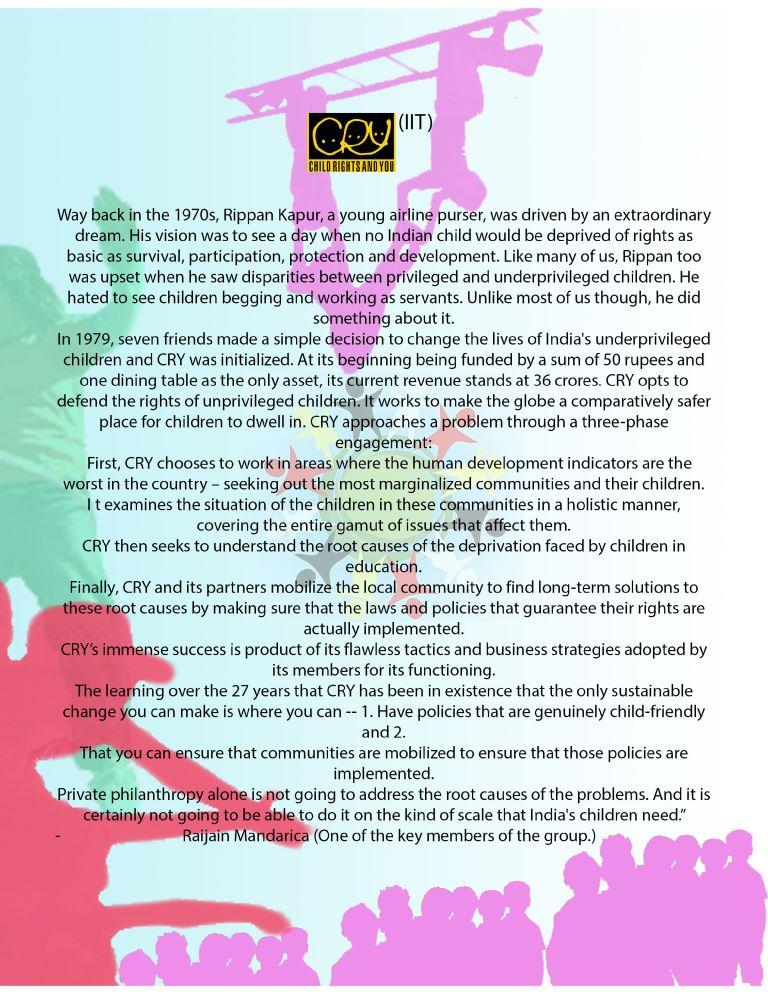
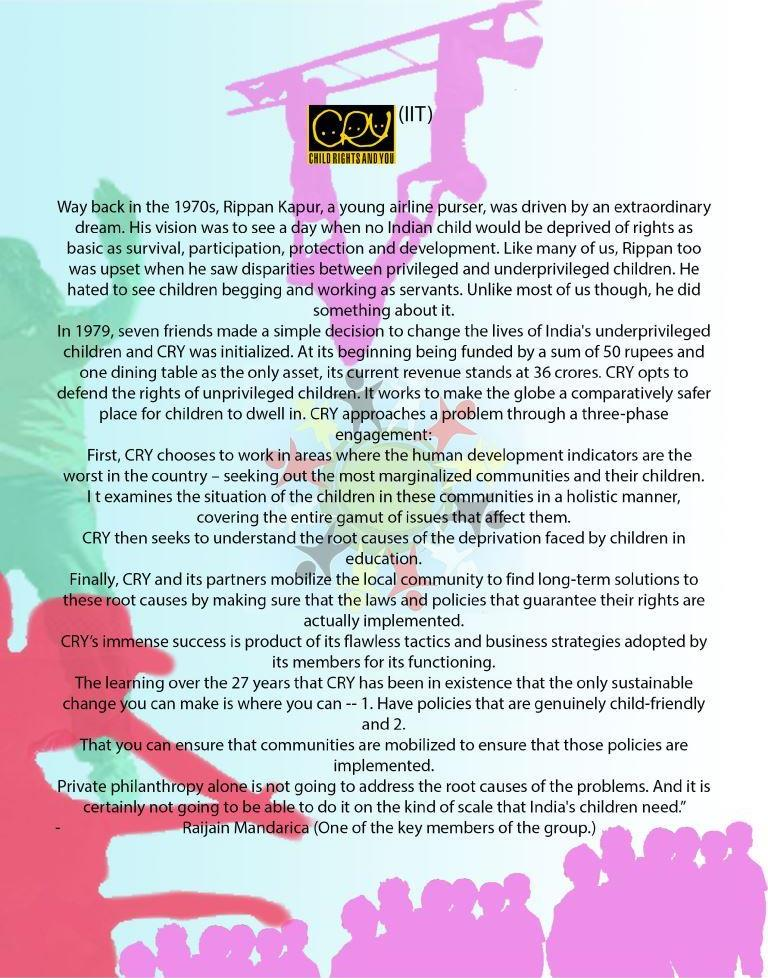
Minor Design changes and bugs resolved
-Added percentage width to bookblock instead of fixed height/width, hence resolved issues on viewing in mobile.
-Added background image to homepage.
-Cropped white space at top/bottom in mag images.

diff --git a/assets/js/bookblock.min.js b/assets/js/bookblock.min.js
@@ -8,4 +8,4 @@
  * Copyright 2013, Codrops
  * http://www.codrops.com
  */
- (function(c){var a=c.document,d=c.Modernizr;d.addTest("csstransformspreserve3d",function(){var h=d.prefixed("transformStyle");var g="preserve-3d";var f;if(!h){return false}h=h.replace(/([A-Z])/g,function(j,i){return"-"+i.toLowerCase()}).replace(/^ms-/,"-ms-");d.testStyles("#modernizr{"+h+":"+g+";}",function(i,j){f=c.getComputedStyle?getComputedStyle(i,null).getPropertyValue(h):""});return(f===g)});function e(g,f){for(var h in f){if(f.hasOwnProperty(h)){g[h]=f[h]}}return g}function b(g,f){this.el=g;this.options=e(this.defaults,f);this._init()}b.prototype={defaults:{orientation:"vertical",direction:"ltr",speed:1000,easing:"ease-in-out",shadows:true,shadowSides:0.2,shadowFlip:0.1,circular:false,nextEl:"",prevEl:"",autoplay:false,interval:3000,onEndFlip:function(f,h,g){return false},onBeforeFlip:function(f){return false}},_init:function(){this.el.className+=" bb-"+this.options.orientation;this.items=Array.prototype.slice.call(this.el.querySelectorAll(".bb-item"));this.itemsCount=this.items.length;this.currentIdx=0;this.previous=-1;this.current=this.items[this.currentIdx];this.current.style.display="block";this.elWidth=this.el.offsetWidth;var f={WebkitTransition:"webkitTransitionEnd",MozTransition:"transitionend",OTransition:"oTransitionEnd",msTransition:"MSTransitionEnd",transition:"transitionend"};this.transEndEventName=f[d.prefixed("transition")];this.support=d.csstransitions&&d.csstransforms3d&&d.csstransformspreserve3d;this._initEvents();if(this.options.autoplay){this.options.circular=true;this._startSlideshow()}},_initEvents:function(){var f=this;if(this.options.nextEl!==""){a.querySelector(this.options.nextEl).addEventListener("click",function(){f._action("next");return false});a.querySelector(this.options.nextEl).addEventListener("touchstart",function(){f._action("next");return false})}if(this.options.prevEl!==""){a.querySelector(this.options.prevEl).addEventListener("click",function(){f._action("prev");return false});a.querySelector(this.options.prevEl).addEventListener("touchstart",function(){f._action("prev");return false})}c.addEventListener("resize",function(){f._resizeHandler()})},_action:function(f,g){this._stopSlideshow();this._navigate(f,g)},_navigate:function(f,g){if(this.isAnimating){return false}this.options.onBeforeFlip(this.currentIdx);this.isAnimating=true;this.current=this.items[this.currentIdx];if(g!==undefined){this.currentIdx=g}else{if(f==="next"&&this.options.direction==="ltr"||f==="prev"&&this.options.direction==="rtl"){if(!this.options.circular&&this.currentIdx===this.itemsCount-1){this.end=true}else{this.previous=this.currentIdx;this.currentIdx=this.currentIdx<this.itemsCount-1?this.currentIdx+1:0}}else{if(f==="prev"&&this.options.direction==="ltr"||f==="next"&&this.options.direction==="rtl"){if(!this.options.circular&&this.currentIdx===0){this.end=true}else{this.previous=this.currentIdx;this.currentIdx=this.currentIdx>0?this.currentIdx-1:this.itemsCount-1}}}}this.nextItem=!this.options.circular&&this.end?this.current:this.items[this.currentIdx];this.items.forEach(function(j,h){j.style.display="none"});if(!this.support){this._layoutNoSupport(f)}else{this._layout(f)}},_layoutNoSupport:function(g){this.nextItem.style.display="block";this.end=false;this.isAnimating=false;var f=g==="next"&&this.currentIdx===this.itemsCount-1||g==="prev"&&this.currentIdx===0;this.options.onEndFlip(this.previous,this.currentIdx,f)},_layout:function(i){var o=this,j=this._addSide("left",i),p=this._addSide("middle",i),l=this._addSide("right",i),f=j.querySelector("div.bb-overlay"),m=p.querySelector("div.bb-front").querySelector("div.bb-flipoverlay"),n=p.querySelector("div.bb-back").querySelector("div.bb-flipoverlay"),k=l.querySelector("div.bb-overlay"),h=this.end?400:this.options.speed;var g=this.items[0];this.el.insertBefore(j,g);this.el.insertBefore(p,g);this.el.insertBefore(l,g);j.style.zIndex=102;p.style.zIndex=103;l.style.zIndex=101;p.style.transitionDuration=h+"ms";p.style.transitionTimingFunction=this.options.easing;p.addEventListener(this.transEndEventName,function(r){if((" "+r.target.className+" ").replace(/[\n\t]/g," ").indexOf(" bb-page ")>-1){Array.prototype.slice.call(o.el.querySelectorAll(".bb-page")).forEach(function(t,s){o.el.removeChild(t)});o.nextItem.style.display="block";o.end=false;o.isAnimating=false;var q=i==="next"&&o.currentIdx===o.itemsCount-1||i==="prev"&&o.currentIdx===0;o.options.onEndFlip(o.previous,o.currentIdx,q)}});if(i==="prev"){p.className+=" bb-flip-initial"}if(this.options.shadows&&!this.end){if(i==="next"){m.style.transition="opacity "+this.options.speed/2+"ms linear";n.style.transition="opacity "+this.options.speed/2+"ms linear "+this.options.speed/2+"ms";n.style.opacity=this.options.shadowFlip;f.style.transition="opacity "+this.options.speed/2+"ms linear "+this.options.speed/2+"ms";k.style.transition="opacity "+this.options.speed/2+"ms linear";k.style.opacity=this.options.shadowSides}else{if(i==="prev"){m.style.transition="opacity "+this.options.speed/2+"ms linear "+this.options.speed/2+"ms";m.style.opacity=this.options.shadowFlip;n.style.transition="opacity "+this.options.speed/2+"ms linear";f.style.transition="opacity "+this.options.speed/2+"ms linear";f.style.opacity=this.options.shadowSides;k.style.transition="opacity "+this.options.speed/2+"ms linear "+this.options.speed/2+"ms"}}}setTimeout(function(){p.className+=o.end?" bb-flip-"+i+"-end":" bb-flip-"+i;if(o.options.shadows&&!o.end){m.style.opacity=i==="next"?o.options.shadowFlip:0;n.style.opacity=i==="next"?0:o.options.shadowFlip;f.style.opacity=i==="next"?o.options.shadowSides:0;k.style.opacity=i==="next"?0:o.options.shadowSides}},25)},_addSide:function(h,g){var j=a.createElement("div");j.className="bb-page";switch(h){case"left":var f=g==="next"?this.current.innerHTML:this.nextItem.innerHTML;j.innerHTML='<div class="bb-back"><div class="bb-outer"><div class="bb-content"><div class="bb-inner">'+f+'</div></div><div class="bb-overlay"></div></div></div>';break;case"middle":var k=g==="next"?this.current.innerHTML:this.nextItem.innerHTML;var i=g==="next"?this.nextItem.innerHTML:this.current.innerHTML;j.innerHTML='<div class="bb-front"><div class="bb-outer"><div class="bb-content"><div class="bb-inner">'+k+'</div></div><div class="bb-flipoverlay"></div></div></div><div class="bb-back"><div class="bb-outer"><div class="bb-content" style="width:'+this.elWidth+'px"><div class="bb-inner">'+i+'</div></div><div class="bb-flipoverlay"></div></div></div>';break;case"right":var f=g==="next"?this.nextItem.innerHTML:this.current.innerHTML;j.innerHTML='<div class="bb-front"><div class="bb-outer"><div class="bb-content"><div class="bb-inner">'+f+'</div></div><div class="bb-overlay"></div></div></div>';break}return j},_startSlideshow:function(){var f=this;this.slideshow=setTimeout(function(){f._navigate("next");if(f.options.autoplay){f._startSlideshow()}},this.options.interval)},_stopSlideshow:function(){if(this.options.autoplay){clearTimeout(this.slideshow);this.options.autoplay=false}},next:function(){this._action(this.options.direction==="ltr"?"next":"prev")},prev:function(){this._action(this.options.direction==="ltr"?"prev":"next")},jump:function(g){g-=1;if(g===this.currentIdx||g>=this.itemsCount||g<0){return false}var f;if(this.options.direction==="ltr"){f=g>this.currentIdx?"next":"prev"}else{f=g>this.currentIdx?"prev":"next"}this._action(f,g)},last:function(){this.jump(this.itemsCount)},first:function(){this.jump(1)},_resizeHandler:function(){var f=this;function g(){f._resize();f._resizeTimeout=null}if(this._resizeTimeout){clearTimeout(this._resizeTimeout)}this._resizeTimeout=setTimeout(g,50)},_resize:function(){this.elWidth=this.el.offsetWidth},isActive:function(){return this.isAnimating},update:function(){var f=this.items[this.current];this.items=Array.prototype.slice.call(this.el.querySelectorAll(".bb-item"));this.itemsCount=this.items.length;this.currentIdx=this.items.indexOf(f)},destroy:function(){if(this.options.autoplay){this._stopSlideshow()}this.el.className=this.el.className.replace(new RegExp("(^|\\s+)bb-"+this.options.orientation+"(\\s+|$)")," ");this.items.forEach(function(g,f){g.style.display="block"});if(this.options.nextEl!==""){this.options.nextEl.removeEventListener("click");this.options.nextEl.removeEventListener("touchstart")}if(this.options.prevEl!==""){this.options.prevEl.removeEventListener("click");this.options.prevEl.removeEventListener("touchstart")}c.removeEventListener("debouncedresize")}};c.BookBlock=b})(window);
+ (function(c){var a=c.document,d=c.Modernizr;d.addTest("csstransformspreserve3d",function(){var h=d.prefixed("transformStyle");var g="preserve-3d";var f;if(!h){return false}h=h.replace(/([A-Z])/g,function(j,i){return"-"+i.toLowerCase()}).replace(/^ms-/,"-ms-");d.testStyles("#modernizr{"+h+":"+g+";}",function(i,j){f=c.getComputedStyle?getComputedStyle(i,null).getPropertyValue(h):""});return(f===g)});function e(g,f){for(var h in f){if(f.hasOwnProperty(h)){g[h]=f[h]}}return g}function b(g,f){this.el=g;this.options=e(this.defaults,f);this._init()}b.prototype={defaults:{orientation:"vertical",direction:"ltr",speed:1000,easing:"ease-in-out",shadows:true,shadowSides:0.2,shadowFlip:0.1,circular:false,nextEl:"",prevEl:"",autoplay:false,interval:3000,onEndFlip:function(f,h,g){return false},onBeforeFlip:function(f){return false}},_init:function(){this.el.className+=" bb-"+this.options.orientation;this.items=Array.prototype.slice.call(this.el.querySelectorAll(".bb-item"));this.itemsCount=this.items.length;this.currentIdx=0;this.previous=-1;this.current=this.items[this.currentIdx];this.current.style.display="block";this.elWidth=this.el.offsetWidth;var f={WebkitTransition:"webkitTransitionEnd",MozTransition:"transitionend",OTransition:"oTransitionEnd",msTransition:"MSTransitionEnd",transition:"transitionend"};this.transEndEventName=f[d.prefixed("transition")];this.support=d.csstransitions&&d.csstransforms3d&&d.csstransformspreserve3d;this._initEvents();if(this.options.autoplay){this.options.circular=true;this._startSlideshow()}},_initEvents:function(){var f=this;if(this.options.nextEl!==""){a.querySelector(this.options.nextEl).addEventListener("click",function(){f._action("next");return false});a.querySelector(this.options.nextEl).addEventListener("touchstart",function(){f._action("next");return false})}if(this.options.prevEl!==""){a.querySelector(this.options.prevEl).addEventListener("click",function(){f._action("prev");return false});a.querySelector(this.options.prevEl).addEventListener("touchstart",function(){f._action("prev");return false})}c.addEventListener("resize",function(){f._resizeHandler()})},_action:function(f,g){this._stopSlideshow();this._navigate(f,g)},_navigate:function(f,g){if(this.isAnimating){return false}this.options.onBeforeFlip(this.currentIdx);this.isAnimating=true;this.current=this.items[this.currentIdx];if(g!==undefined){this.currentIdx=g}else{if(f==="next"&&this.options.direction==="ltr"||f==="prev"&&this.options.direction==="rtl"){if(!this.options.circular&&this.currentIdx===this.itemsCount-1){this.end=true}else{this.previous=this.currentIdx;this.currentIdx=this.currentIdx<this.itemsCount-1?this.currentIdx+1:0}}else{if(f==="prev"&&this.options.direction==="ltr"||f==="next"&&this.options.direction==="rtl"){if(!this.options.circular&&this.currentIdx===0){this.end=true}else{this.previous=this.currentIdx;this.currentIdx=this.currentIdx>0?this.currentIdx-1:this.itemsCount-1}}}}this.nextItem=!this.options.circular&&this.end?this.current:this.items[this.currentIdx];this.items.forEach(function(j,h){j.style.display="none"});if(!this.support){this._layoutNoSupport(f)}else{this._layout(f)}},_layoutNoSupport:function(g){this.nextItem.style.display="block";this.end=false;this.isAnimating=false;var f=g==="next"&&this.currentIdx===this.itemsCount-1||g==="prev"&&this.currentIdx===0;this.options.onEndFlip(this.previous,this.currentIdx,f)},_layout:function(i){var o=this,j=this._addSide("left",i),p=this._addSide("middle",i),l=this._addSide("right",i),f=j.querySelector("div.bb-overlay"),m=p.querySelector("div.bb-front").querySelector("div.bb-flipoverlay"),n=p.querySelector("div.bb-back").querySelector("div.bb-flipoverlay"),k=l.querySelector("div.bb-overlay"),h=this.end?400:this.options.speed;var g=this.items[0];this.el.insertBefore(j,g);this.el.insertBefore(p,g);this.el.insertBefore(l,g);j.style.zIndex=102;p.style.zIndex=103;l.style.zIndex=101;l.style.position="relative";p.style.transitionDuration=h+"ms";p.style.transitionTimingFunction=this.options.easing;p.addEventListener(this.transEndEventName,function(r){if((" "+r.target.className+" ").replace(/[\n\t]/g," ").indexOf(" bb-page ")>-1){Array.prototype.slice.call(o.el.querySelectorAll(".bb-page")).forEach(function(t,s){o.el.removeChild(t)});o.nextItem.style.display="block";o.end=false;o.isAnimating=false;var q=i==="next"&&o.currentIdx===o.itemsCount-1||i==="prev"&&o.currentIdx===0;o.options.onEndFlip(o.previous,o.currentIdx,q)}});if(i==="prev"){p.className+=" bb-flip-initial"}if(this.options.shadows&&!this.end){if(i==="next"){m.style.transition="opacity "+this.options.speed/2+"ms linear";n.style.transition="opacity "+this.options.speed/2+"ms linear "+this.options.speed/2+"ms";n.style.opacity=this.options.shadowFlip;f.style.transition="opacity "+this.options.speed/2+"ms linear "+this.options.speed/2+"ms";k.style.transition="opacity "+this.options.speed/2+"ms linear";k.style.opacity=this.options.shadowSides}else{if(i==="prev"){m.style.transition="opacity "+this.options.speed/2+"ms linear "+this.options.speed/2+"ms";m.style.opacity=this.options.shadowFlip;n.style.transition="opacity "+this.options.speed/2+"ms linear";f.style.transition="opacity "+this.options.speed/2+"ms linear";f.style.opacity=this.options.shadowSides;k.style.transition="opacity "+this.options.speed/2+"ms linear "+this.options.speed/2+"ms"}}}setTimeout(function(){p.className+=o.end?" bb-flip-"+i+"-end":" bb-flip-"+i;if(o.options.shadows&&!o.end){m.style.opacity=i==="next"?o.options.shadowFlip:0;n.style.opacity=i==="next"?0:o.options.shadowFlip;f.style.opacity=i==="next"?o.options.shadowSides:0;k.style.opacity=i==="next"?0:o.options.shadowSides}},25)},_addSide:function(h,g){var j=a.createElement("div");j.className="bb-page";switch(h){case"left":var f=g==="next"?this.current.innerHTML:this.nextItem.innerHTML;j.innerHTML='<div class="bb-back"><div class="bb-outer"><div class="bb-content"><div class="bb-inner">'+f+'</div></div><div class="bb-overlay"></div></div></div>';break;case"middle":var k=g==="next"?this.current.innerHTML:this.nextItem.innerHTML;var i=g==="next"?this.nextItem.innerHTML:this.current.innerHTML;j.innerHTML='<div class="bb-front"><div class="bb-outer"><div class="bb-content"><div class="bb-inner">'+k+'</div></div><div class="bb-flipoverlay"></div></div></div><div class="bb-back"><div class="bb-outer"><div class="bb-content" style="width:'+this.elWidth+'px"><div class="bb-inner">'+i+'</div></div><div class="bb-flipoverlay"></div></div></div>';break;case"right":var f=g==="next"?this.nextItem.innerHTML:this.current.innerHTML;j.innerHTML='<div class="bb-front"><div class="bb-outer"><div class="bb-content"><div class="bb-inner">'+f+'</div></div><div class="bb-overlay"></div></div></div>';break}return j},_startSlideshow:function(){var f=this;this.slideshow=setTimeout(function(){f._navigate("next");if(f.options.autoplay){f._startSlideshow()}},this.options.interval)},_stopSlideshow:function(){if(this.options.autoplay){clearTimeout(this.slideshow);this.options.autoplay=false}},next:function(){this._action(this.options.direction==="ltr"?"next":"prev")},prev:function(){this._action(this.options.direction==="ltr"?"prev":"next")},jump:function(g){g-=1;if(g===this.currentIdx||g>=this.itemsCount||g<0){return false}var f;if(this.options.direction==="ltr"){f=g>this.currentIdx?"next":"prev"}else{f=g>this.currentIdx?"prev":"next"}this._action(f,g)},last:function(){this.jump(this.itemsCount)},first:function(){this.jump(1)},_resizeHandler:function(){var f=this;function g(){f._resize();f._resizeTimeout=null}if(this._resizeTimeout){clearTimeout(this._resizeTimeout)}this._resizeTimeout=setTimeout(g,50)},_resize:function(){this.elWidth=this.el.offsetWidth},isActive:function(){return this.isAnimating},update:function(){var f=this.items[this.current];this.items=Array.prototype.slice.call(this.el.querySelectorAll(".bb-item"));this.itemsCount=this.items.length;this.currentIdx=this.items.indexOf(f)},destroy:function(){if(this.options.autoplay){this._stopSlideshow()}this.el.className=this.el.className.replace(new RegExp("(^|\\s+)bb-"+this.options.orientation+"(\\s+|$)")," ");this.items.forEach(function(g,f){g.style.display="block"});if(this.options.nextEl!==""){this.options.nextEl.removeEventListener("click");this.options.nextEl.removeEventListener("touchstart")}if(this.options.prevEl!==""){this.options.prevEl.removeEventListener("click");this.options.prevEl.removeEventListener("touchstart")}c.removeEventListener("debouncedresize")}};c.BookBlock=b})(window);

diff --git a/index.html b/index.html
@@ -1,6 +1,6 @@
 ---
 layout: home_page
-excerpt: "THE HOME PAGE OF IITHbt"
+excerpt: "The Home Page of IIT HeartBeat"
 search_omit: true
 ---
 <link rel="stylesheet" type="text/css" href ="assets/css/demo1.css">
@@ -8,22 +8,31 @@ search_omit: true
 <link rel="stylesheet" type="text/css" href="assets/css/default.css" />
 <link rel="stylesheet" type="text/css" href="assets/css/bookblock.css" />
 <script src="https://ajax.googleapis.com/ajax/libs/jquery/1.9.1/jquery.min.js"></script>
-<script type="text/javascript">
-function createImageId(i) {
-	var $a = $("<div>", {"class": "bb-item"});
-	var $img = $("<img>",{"src": "images/newmags/file-page"+i+".jpg"});
-	$a.append($img);
-	return $a;
-}
-function additem() {
-	for (var i = 1; i <= 40; i++) {
-		console.log(createImageId(i));
-		$(".bb-bookblock").append(createImageId(i));
-	};
-}
-
-</script>
 <script src="assets/js/modernizr.custom.js"></script>
+<script src="assets/js/jquerypp.custom.js"></script>
+<script src="assets/js/jquery.bookblock.js"></script>
+<script>
+	function createImageId(i) {
+		var $a = $("<div>", {"class": "bb-item"});
+		var $img = $("<img>",{"src": "images/newmags/file-page"+i+".jpg"});
+		$a.append($img);
+		return $a;
+	}
+	function additems() {
+		for (var i = 1; i <= 40; i++) {
+			$(".bb-bookblock").append(createImageId(i));
+		};
+	}
+
+	$(window).load(function()
+	{
+		$(".bb-bookblock").css("min-height", function(){return $(this).height();});
+	});
+	$(window).resize(function() {
+		$(".bb-bookblock").css("min-height",0);
+    	$(".bb-bookblock").css("min-height", function(){return $(this).height();});
+	});
+</script>
 <div class="main clearfix">
 	<div class="bb-custom-wrapper">
 		<div id="bb-bookblock" class="bb-bookblock">
@@ -41,90 +50,85 @@ function additem() {
   <li><article><h2><a href="{{ site.url }}{{ post.url }}">{{ post.title }} </h2><span class="entry-date"><time datetime="{{ post.date | date_to_xmlschema }}">{{ post.date | date: "%B %d, %Y" }}</time></span>{% if post.excerpt %} <p>{{ post.excerpt | remove: '\[ ... \]' | remove: '\( ... \)' | markdownify | strip_html | strip_newlines | escape_once }}</p>{% endif %}</a></article></li>
 {% endfor %}
 </ul>
-<script type="text/javascript">additem();</script>
-
-<script src="assets/js/jquerypp.custom.js"></script>
-<script src="assets/js/jquery.bookblock.js"></script>
-<script>
-			var Page = (function() {
+<script type="text/javascript">
+var Page = (function() {
 				
-				var config = {
-						$bookBlock : $( '#bb-bookblock' ),
-						$navNext : $( '#bb-nav-next' ),
-						$navPrev : $( '#bb-nav-prev' ),
-						$navFirst : $( '#bb-nav-first' ),
-						$navLast : $( '#bb-nav-last' )
-					},
-					init = function() {
-						config.$bookBlock.bookblock( {
-							speed : 1000,
-							shadowSides : 0.8,
-							shadowFlip : 0.7
-						} );
-						initEvents();
-					},
-					initEvents = function() {
+			var config = {
+					$bookBlock : $( '#bb-bookblock' ),
+					$navNext : $( '#bb-nav-next' ),
+					$navPrev : $( '#bb-nav-prev' ),
+					$navFirst : $( '#bb-nav-first' ),
+					$navLast : $( '#bb-nav-last' )
+				},
+				init = function() {
+					config.$bookBlock.bookblock( {
+						speed : 1000,
+						shadowSides : 0.8,
+						shadowFlip : 0.7
+					} );
+					initEvents();
+				},
+				initEvents = function() {
 						
-						var $slides = config.$bookBlock.children();
+					var $slides = config.$bookBlock.children();
 
 						// add navigation events
-						config.$navNext.on( 'click touchstart', function() {
+					config.$navNext.on( 'click touchstart', function() {
+						config.$bookBlock.bookblock( 'next' );
+						return false;
+					} );
+
+					config.$navPrev.on( 'click touchstart', function() {
+						config.$bookBlock.bookblock( 'prev' );
+						return false;
+					} );
+
+					config.$navFirst.on( 'click touchstart', function() {
+						config.$bookBlock.bookblock( 'first' );
+						return false;
+					} );
+
+					config.$navLast.on( 'click touchstart', function() {
+						config.$bookBlock.bookblock( 'last' );
+						return false;
+					} );
+						
+					// add swipe events
+					$slides.on( {
+						'swipeleft' : function( event ) {
 							config.$bookBlock.bookblock( 'next' );
 							return false;
-						} );
-
-						config.$navPrev.on( 'click touchstart', function() {
+						},
+						'swiperight' : function( event ) {
 							config.$bookBlock.bookblock( 'prev' );
 							return false;
-						} );
+						}
+					} );
 
-						config.$navFirst.on( 'click touchstart', function() {
-							config.$bookBlock.bookblock( 'first' );
-							return false;
-						} );
+					// add keyboard events
+					$( document ).keydown( function(e) {
+						var keyCode = e.keyCode || e.which,
+							arrow = {
+								left : 37,
+								up : 38,
+								right : 39,
+								down : 40
+							};
 
-						config.$navLast.on( 'click touchstart', function() {
-							config.$bookBlock.bookblock( 'last' );
-							return false;
-						} );
-						
-						// add swipe events
-						$slides.on( {
-							'swipeleft' : function( event ) {
-								config.$bookBlock.bookblock( 'next' );
-								return false;
-							},
-							'swiperight' : function( event ) {
+						switch (keyCode) {
+							case arrow.left:
 								config.$bookBlock.bookblock( 'prev' );
-								return false;
-							}
-						} );
+								break;
+							case arrow.right:
+								config.$bookBlock.bookblock( 'next' );
+								break;
+						}
+					} );
+				};
 
-						// add keyboard events
-						$( document ).keydown( function(e) {
-							var keyCode = e.keyCode || e.which,
-								arrow = {
-									left : 37,
-									up : 38,
-									right : 39,
-									down : 40
-								};
+				return { init : init };
 
-							switch (keyCode) {
-								case arrow.left:
-									config.$bookBlock.bookblock( 'prev' );
-									break;
-								case arrow.right:
-									config.$bookBlock.bookblock( 'next' );
-									break;
-							}
-						} );
-					};
-
-					return { init : init };
-
-			})();
-		</script>
-		<script>
-				Page.init();
-		</script>
+		})();
+		additems();
+		Page.init();
+</script>

diff --git a/assets/js/jquery.bookblock.js b/assets/js/jquery.bookblock.js
@@ -378,7 +378,7 @@
 							</div>
 						</div>
 						*/
-					$side = $('<div class="bb-page"><div class="bb-front"><div class="bb-outer"><div class="bb-content"><div class="bb-inner">' + (dir === 'next' ? this.$current.html() : this.$nextItem.html()) + '</div></div><div class="bb-flipoverlay"></div></div></div><div class="bb-back"><div class="bb-outer"><div class="bb-content" style="width:' + this.elWidth + 'px"><div class="bb-inner">' + ( dir === 'next' ? this.$nextItem.html() : this.$current.html() ) + '</div></div><div class="bb-flipoverlay"></div></div></div></div>').css( 'z-index', 103 );
+					$side = $('<div class="bb-page"><div class="bb-front" style="position:absolute;"><div class="bb-outer"><div class="bb-content"><div class="bb-inner">' + (dir === 'next' ? this.$current.html() : this.$nextItem.html()) + '</div></div><div class="bb-flipoverlay"></div></div></div><div class="bb-back" style="position:absolute;"><div class="bb-outer"><div class="bb-content" style="width:' + this.elWidth + 'px"><div class="bb-inner">' + ( dir === 'next' ? this.$nextItem.html() : this.$current.html() ) + '</div></div><div class="bb-flipoverlay"></div></div></div></div>').css( 'z-index', 103 );
 					break;
 				case 'right':
 						/*
@@ -395,7 +395,7 @@
 							</div>
 						</div>
 						*/
-					$side = $('<div class="bb-page"><div class="bb-front"><div class="bb-outer"><div class="bb-content"><div class="bb-inner">' + ( dir === 'next' ? this.$nextItem.html() : this.$current.html() ) + '</div></div><div class="bb-overlay"></div></div></div></div>').css( 'z-index', 101 );
+					$side = $('<div class="bb-page"><div class="bb-front"><div class="bb-outer"><div class="bb-content"><div class="bb-inner">' + ( dir === 'next' ? this.$nextItem.html() : this.$current.html() ) + '</div></div><div class="bb-overlay"></div></div></div></div>').css({'z-index':101,'position':'relative'});
 					break;
 			}
 

diff --git a/assets/css/bookblock.css b/assets/css/bookblock.css
@@ -1,7 +1,7 @@
 .bb-bookblock {
 	text-align: center;
-	width: 700px;
-	height: 906px;
+	width: 60%;
+	height: auto;
 	margin: 0 auto;
 	position: relative;
 	z-index: 100;
@@ -11,8 +11,12 @@
 	backface-visibility: hidden;
 }
 .bb-bookblock .bb-item img {
-	width: inherit;
-	height: inherit;
+	width: 100%;
+	height: auto;
+}
+.bb-inner img {
+	width: 100%;
+	height: auto;
 }
 
 .bb-page {
@@ -43,9 +47,7 @@
 .bb-outer,
 .bb-content,
 .bb-inner {
-	position: absolute;
-	height: 100%;
-	width: 100%;
+	position: relative;
 	top: 0;
 	left: 0;
 	/*box-shadow: 0px 0px 30px #888999;*/
@@ -81,6 +83,11 @@
 	width: 100%;
 	overflow: hidden;
 	z-index: 999;
+}
+
+.bb-front,
+.bb-back {
+	position: absolute;
 }
 
 .bb-overlay, 
@@ -169,7 +176,7 @@
 .bb-item {
 	width: 100%;
 	height: 100%;
-	position: absolute;
+	position: relative;
 	top: 0;
 	left: 0;
 	display: none;

diff --git a/_layouts/home_page.html b/_layouts/home_page.html
@@ -17,7 +17,7 @@
     border-right: 1px solid #E7E6E6;
     border-left: 1px solid #E7E6E6;
     background: #f6f8f8;
-    border-radius: 6px;
+    border-radius: 16px;
     border-bottom: 1px solid #CFCFCF;
     box-shadow: 0px 10px 10px rgba(81,64,49,0.3);
     min-height: 800px;

diff --git a/assets/js/bookblock.js b/assets/js/bookblock.js
@@ -217,6 +217,7 @@
 			s_left.style.zIndex = 102;
 			s_middle.style.zIndex = 103;
 			s_right.style.zIndex = 101;
+			s_right.style.position = "relative";
 
 			s_middle.style.transitionDuration = speed + 'ms';
 			s_middle.style.transitionTimingFunction = this.options.easing;
